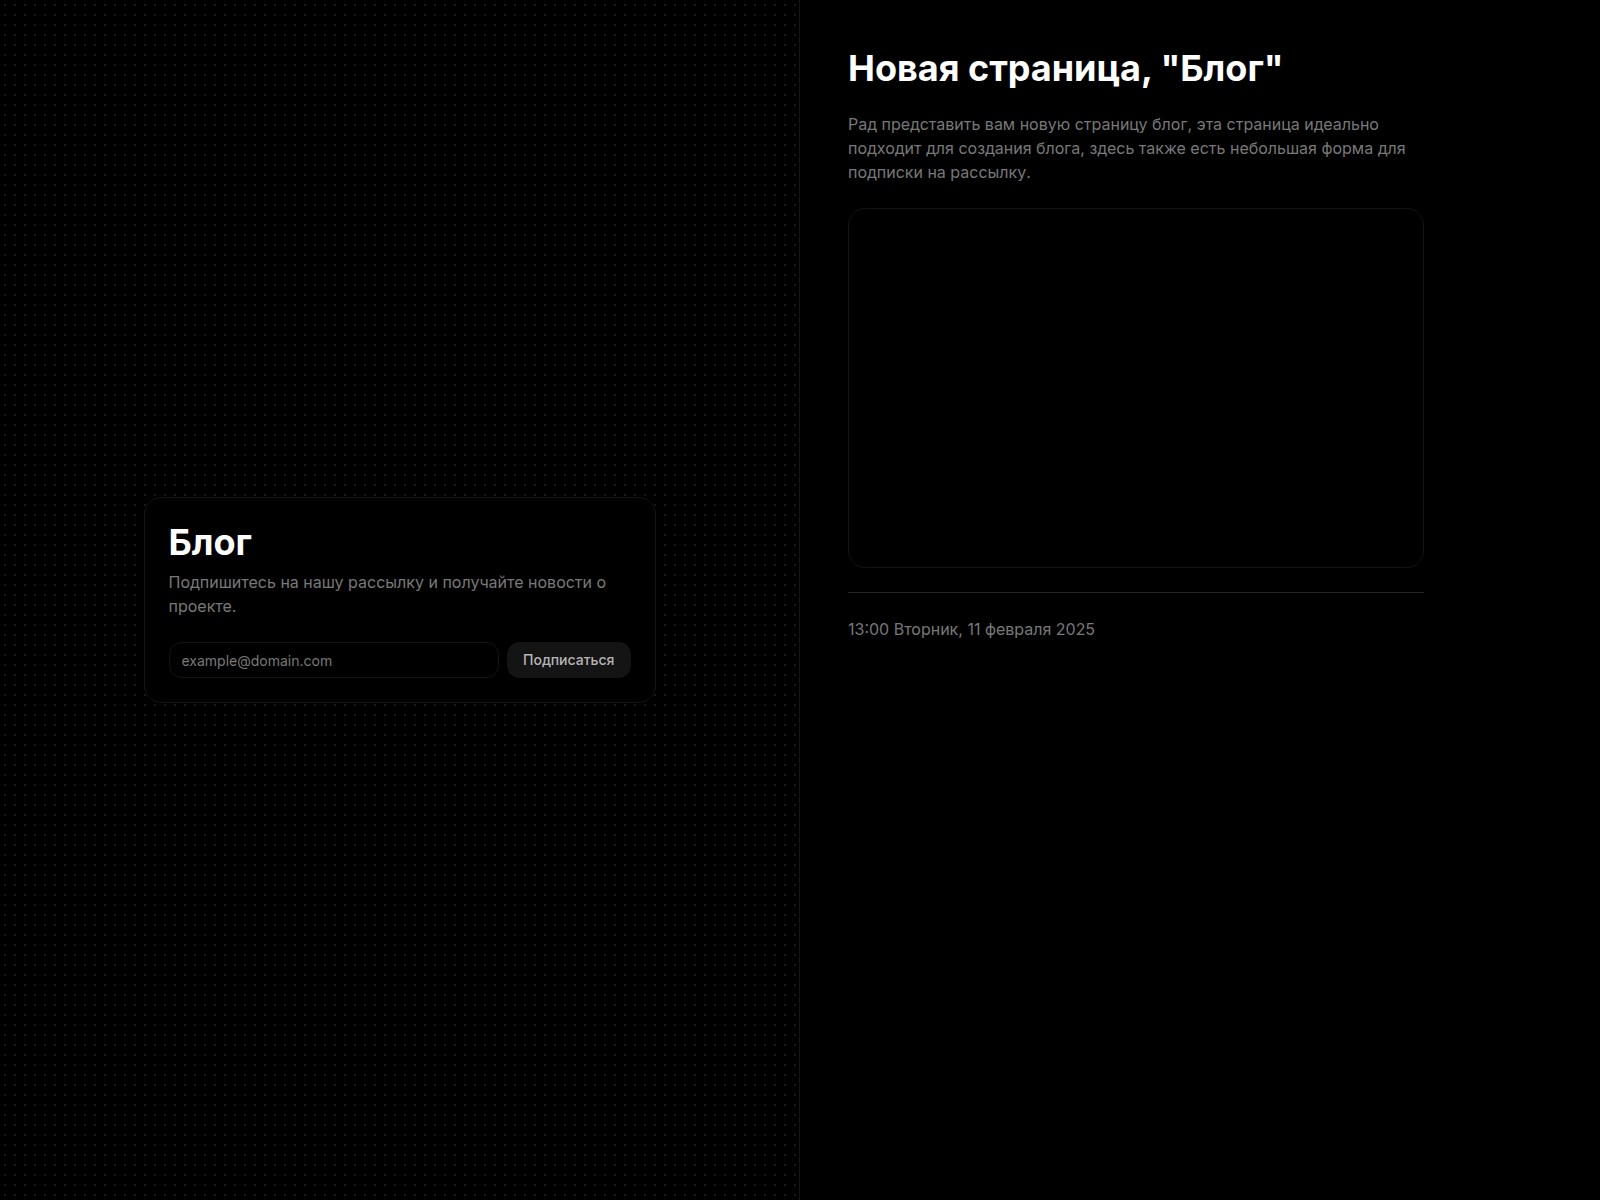
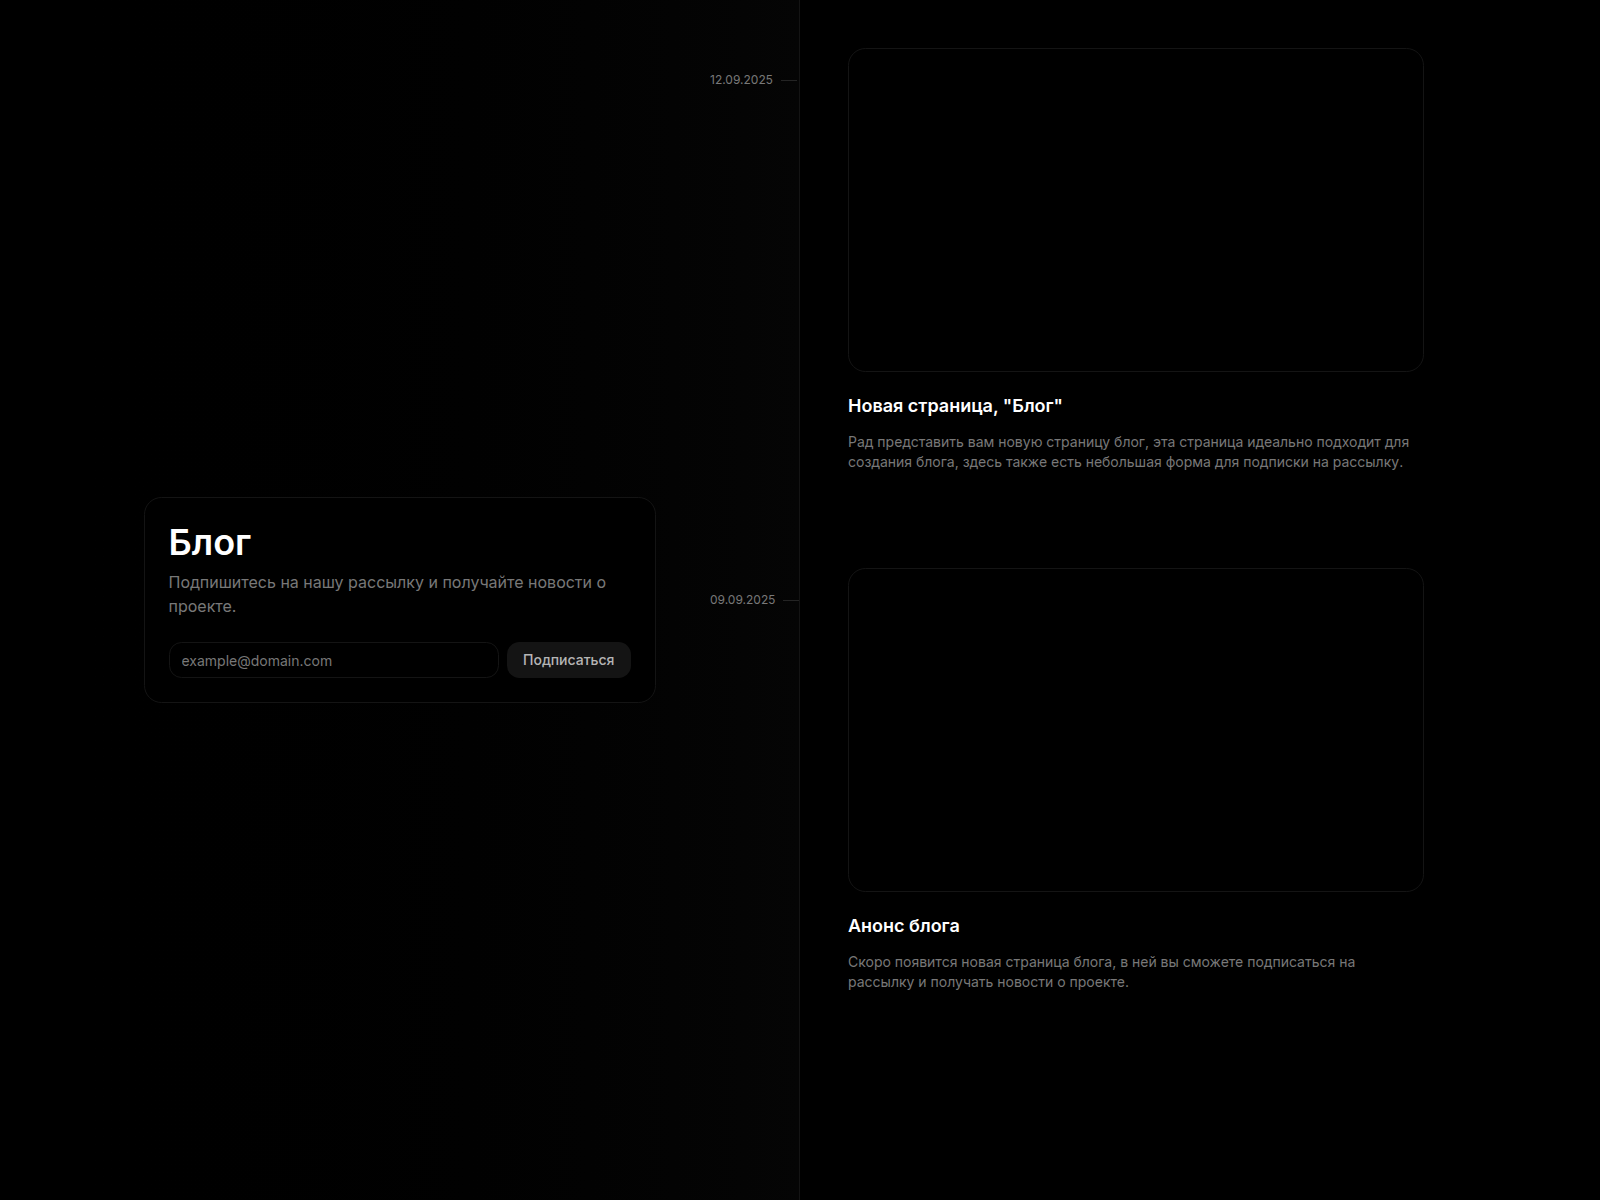
update pages

diff --git a/apps/pages/app/(pages)/blog/page.tsx b/apps/pages/app/(pages)/blog/page.tsx
@@ -15,37 +15,62 @@ const page = async ({ searchParams }: PageProps) => {
     <>
       <div
         className={cn(
-          "w-full min-h-dvh flex md:!flex-row flex-col",
-          "md:!divide-x divide-x-0 md:!divide-y-0 divide-y",
+          "w-full min-h-dvh flex lg:!flex-row flex-col",
+          "lg:!divide-x divide-x-0 lg:!divide-y-0 divide-y",
         )}
       >
-        <section className="md:!w-1/2 w-full h-dvh flex flex-col justify-center items-center pattern-dots">
+        <section
+          className={cn(
+            "lg:!w-1/2 w-full lg:!h-dvh h-fit flex flex-col justify-center items-center",
+            "bg-gradient-to-l from-background-secondary to-background p-6 lg:!sticky static top-0",
+          )}
+        >
           <div className="w-full max-w-lg p-6 bg-background rounded-2xl border space-y-6">
             <div className="flex flex-col gap-2">
-              <h1 className="text-4xl font-bold">Блог</h1>
+              <h1 className="text-4xl font-semibold">Блог</h1>
               <p className="text-base text-secondary">
                 Подпишитесь на нашу рассылку и получайте новости о проекте.
               </p>
             </div>
-            <div className="flex flex-ros gap-2">
+            <div className="flex flex-row gap-2">
               <Input placeholder="example@domain.com" />
               <Button variant="secondary">Подписаться</Button>
             </div>
           </div>
         </section>
-        <div className="md:!w-1/2 w-full min-h-dvh">
-          <section className="w-full max-w-2xl mt-12 lg:!px-12 px-6 space-y-6">
-            <h2 className="text-4xl font-bold">Новая страница, "Блог"</h2>
-            <p className="text-base text-secondary">
-              Рад представить вам новую страницу блог, эта страница идеально
-              подходит для создания блога, здесь также есть небольшая форма для
-              подписки на рассылку.
-            </p>
-            <div className="w-full aspect-[4/2.5] rounded-2xl border" />
-            <Separator />
-            <time className="text-secondary block">
-              13:00 Вторник, 11 февраля 2025{" "}
-            </time>
+        <div className="lg:!w-1/2 w-full lg:!min-h-dvh min-h-fit">
+          <section className="w-full h-fit max-w-2xl mt-12 pb-12 space-y-24">
+            <div className="w-full lg:!px-12 px-6 space-y-5 relative">
+              <div className="flex items-center gap-2 absolute -left-[90px] top-6">
+                <span className="text-xs text-secondary">12.09.2025</span>
+                <Separator className="w-4" />
+              </div>
+              <div className="w-full aspect-video rounded-2xl border" />
+              <div className="w-full space-y-3">
+                <h2 className="text-lg font-semibold">
+                  Новая страница, "Блог"
+                </h2>
+                <p className="text-sm text-secondary">
+                  Рад представить вам новую страницу блог, эта страница идеально
+                  подходит для создания блога, здесь также есть небольшая форма
+                  для подписки на рассылку.
+                </p>
+              </div>
+            </div>
+            <div className="w-full lg:!px-12 px-6 space-y-5 relative">
+              <div className="flex items-center gap-2 absolute -left-[90px] top-6">
+                <span className="text-xs text-secondary">09.09.2025</span>
+                <Separator className="w-4" />
+              </div>
+              <div className="w-full aspect-video rounded-2xl border" />
+              <div className="w-full space-y-3">
+                <h2 className="text-lg font-semibold">Анонс блога</h2>
+                <p className="text-sm text-secondary">
+                  Скоро появится новая страница блога, в ней вы сможете
+                  подписаться на рассылку и получать новости о проекте.
+                </p>
+              </div>
+            </div>
           </section>
         </div>
       </div>

diff --git a/apps/website/app/(root)/page.tsx b/apps/website/app/(root)/page.tsx
@@ -23,6 +23,11 @@ import Hero from "./hero";
 import ServicesDetails from "./services-details";
 import TechList from "./tech-list";
 
+// export const runtime = "edge";
+export const fetchCache = "default-cache";
+export const revalidate = 600;
+// export const dynamic = ""
+
 const page = async () => {
   return (
     <>

diff --git a/apps/website/app/api/health/route.ts b/apps/website/app/api/health/route.ts
@@ -1,0 +1,3 @@
+export function GET() {
+  return Response.json({ status: "ok" });
+}
